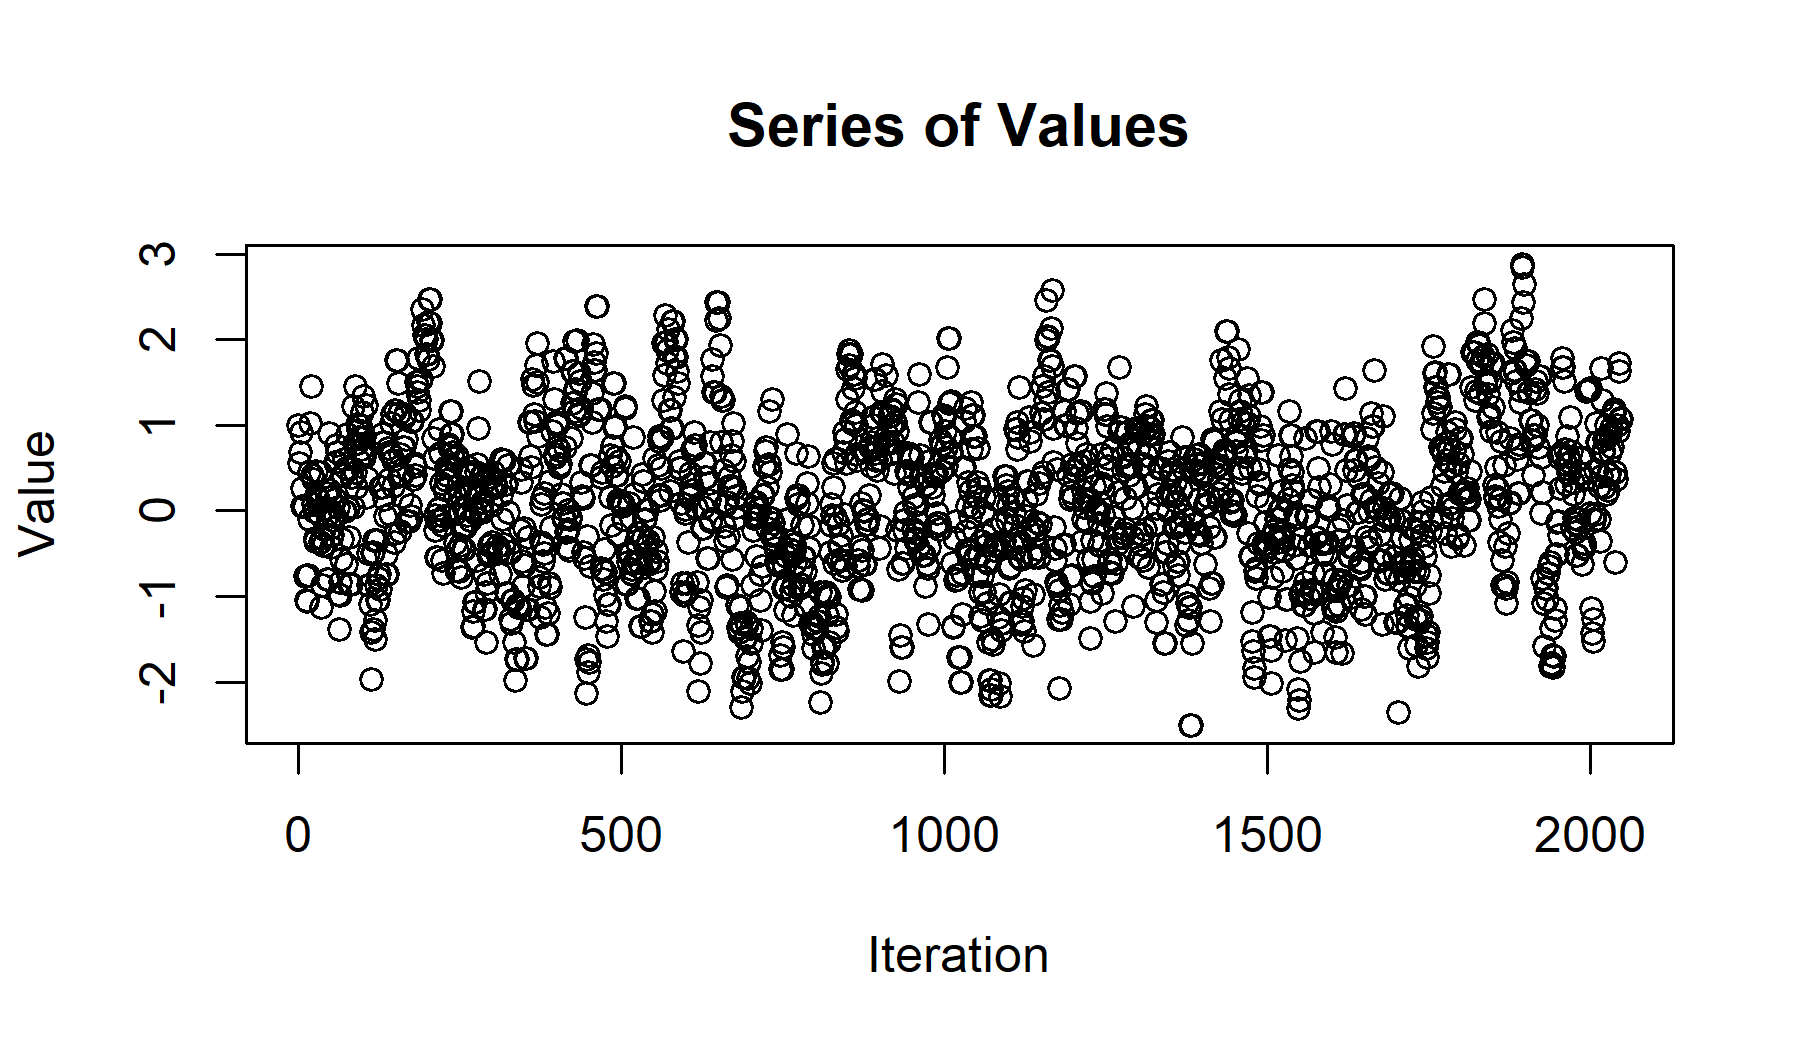
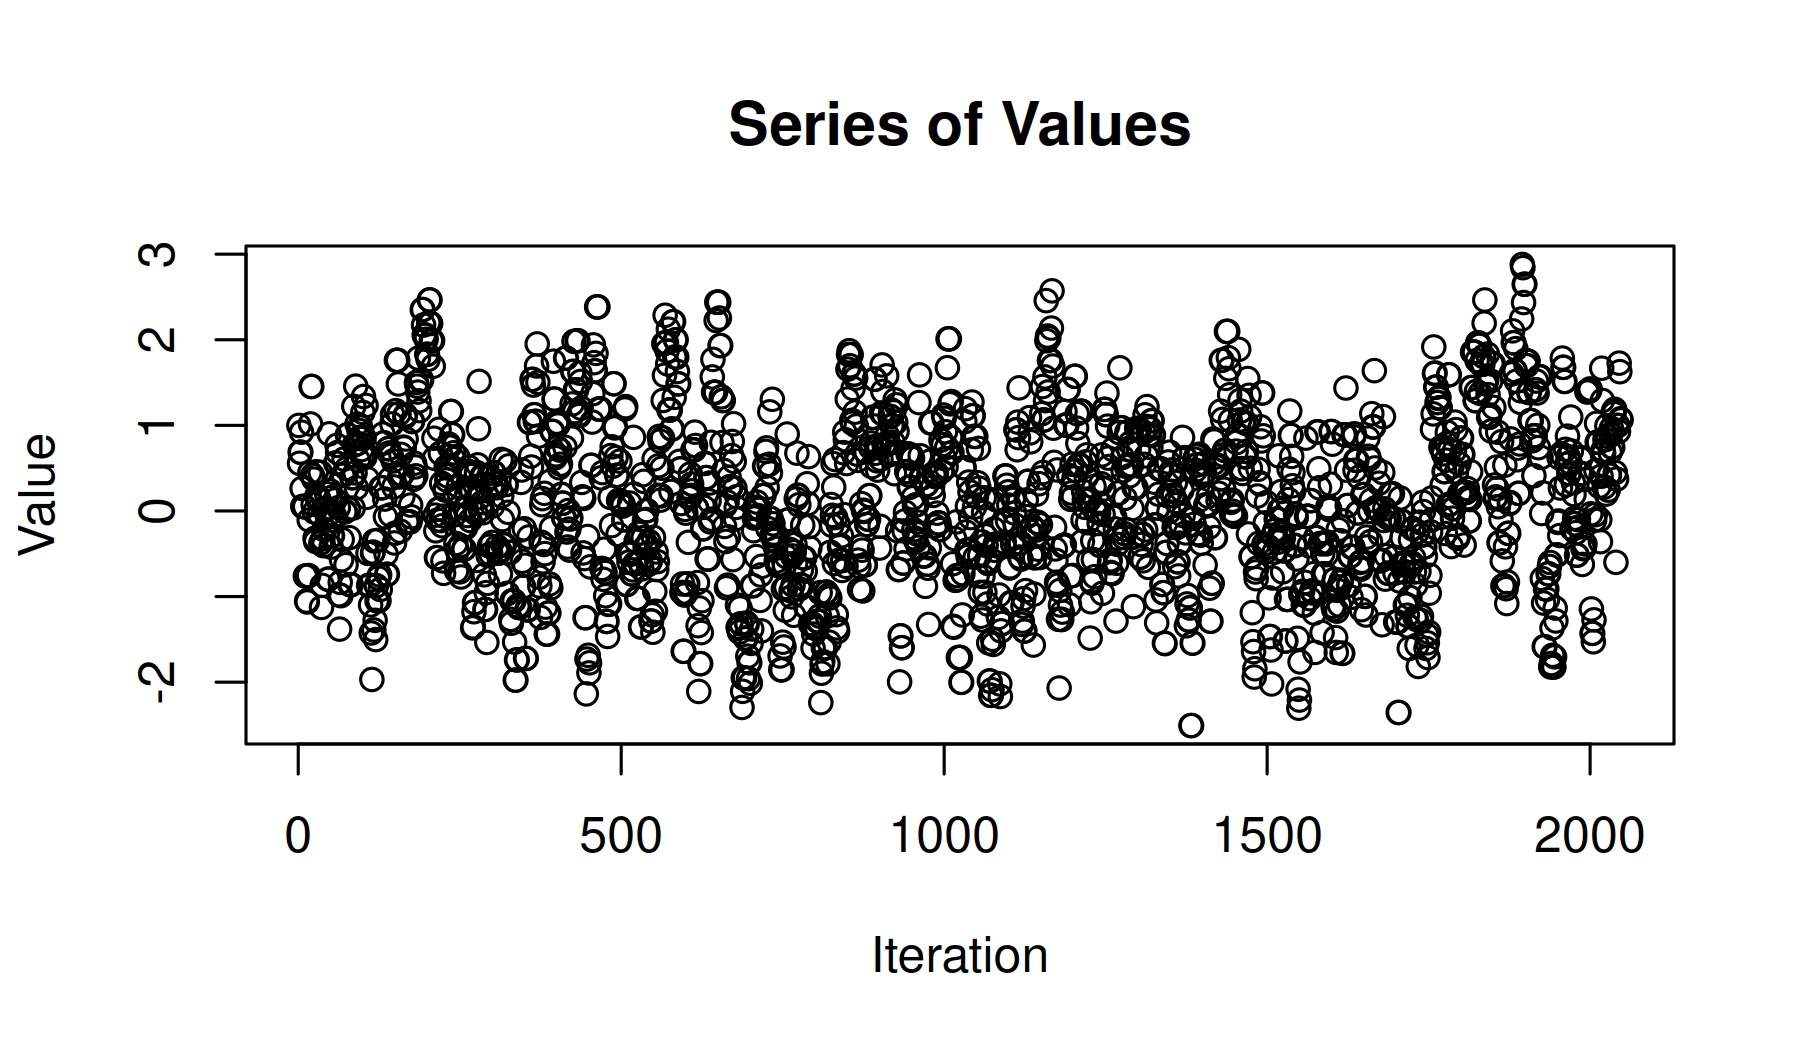
expose cpp MCMC algorithms

diff --git a/src/mc3.cpp b/src/mc3.cpp
@@ -14,7 +14,7 @@
 #include "pdf_manage.h"
 using namespace Rcpp;
 
-///'@export
+//'@export
 // [[Rcpp::export]]
 List sampler_mc3_cpp(
     NumericMatrix start, // Numeric Matrix of starts for each chain.

diff --git a/src/mcrec.cpp b/src/mcrec.cpp
@@ -14,7 +14,7 @@
 #include "pdf_manage.h"
 using namespace Rcpp;
 
-///'@export
+//'@export
 // [[Rcpp::export]]
 List sampler_mc_rec_cpp(
     NumericVector start,

diff --git a/src/hmc.cpp b/src/hmc.cpp
@@ -14,7 +14,7 @@
 #include "pdf_manage.h"
 using namespace Rcpp;
 
-///'@export
+//'@export
 // [[Rcpp::export]]
 List sampler_hmc_cpp(
     NumericVector start,

diff --git a/src/mh.cpp b/src/mh.cpp
@@ -14,7 +14,7 @@
 #include "pdf_manage.h"
 using namespace Rcpp;
 
-///'@export
+//'@export
 //[[Rcpp::export]]
 List sampler_mh_cpp(
     NumericVector start,

diff --git a/README.md b/README.md
@@ -1,4 +1,9 @@
 
+This branch makes cpp functions for MCMC algorithms available. They are
+not documented. We recommend not using them directly, but using their .R
+wrappers instead (as you would when using the samplr/main branch or from
+CRAN).
+
 <!-- README.md is generated from README.Rmd. Please edit that file -->
 
 # samplr: Tools To Compare Human Performance To Sampling Algorithms
